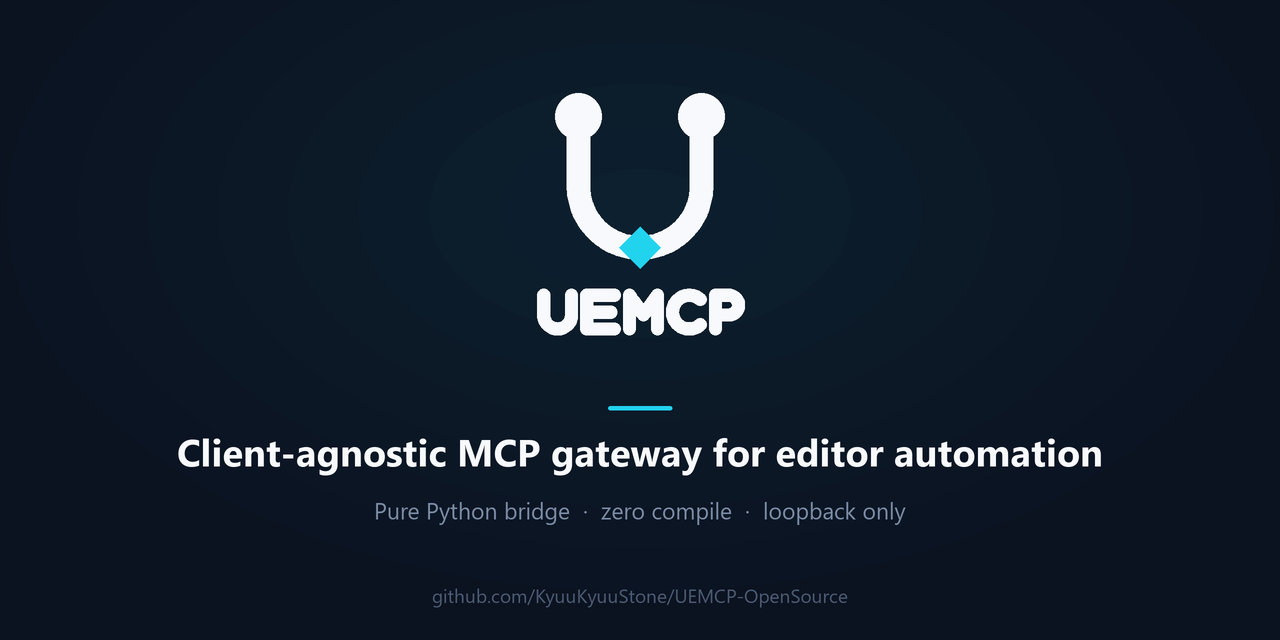
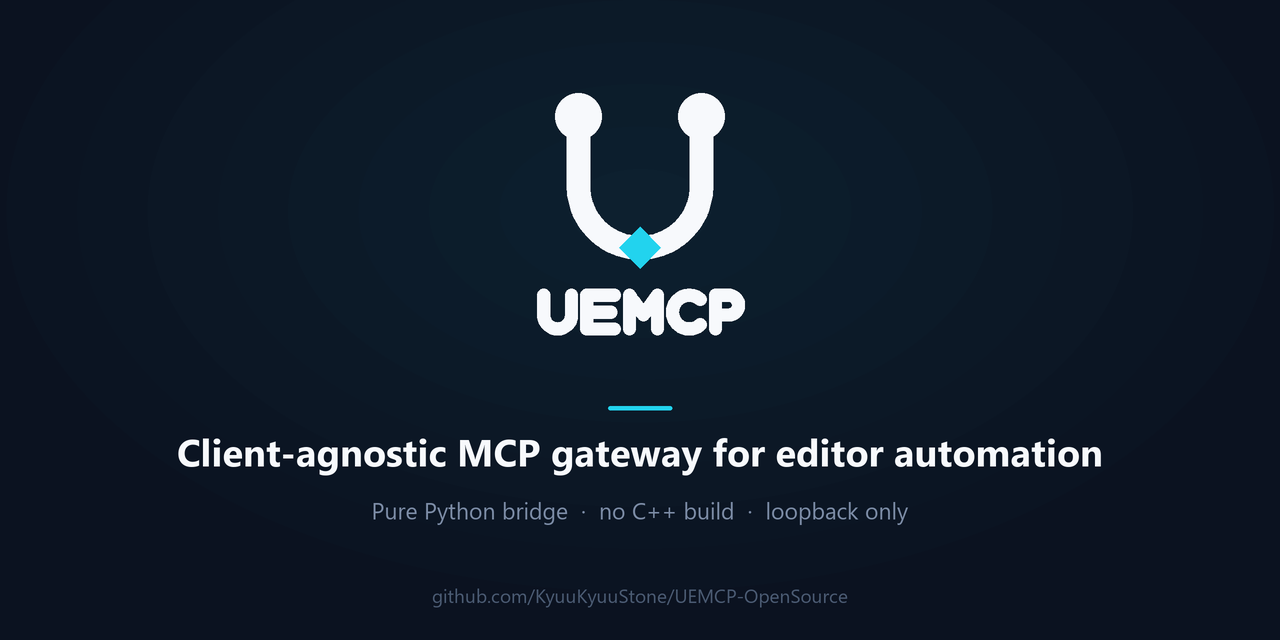
docs: add v0.1.0 download links, brand license, known limitations; refresh social preview

Changed region(s): [[0.4688, 0.7812, 0.7188, 0.8125], [0.2812, 0.7812, 0.4375, 0.8125]]

diff --git a/assets/render-logo.py b/assets/render-logo.py
@@ -248,7 +248,7 @@ def render_social(path):
     url_font = _font(int(19 * scale_factor), bold=False)
     _centered(draw, "Client-agnostic MCP gateway for editor automation",
               headline_font, int(height * 0.685), PAPER, width=width)
-    _centered(draw, "Pure Python bridge  ·  zero compile  ·  loopback only",
+    _centered(draw, "Pure Python bridge  ·  no C++ build  ·  loopback only",
               sub_font, int(height * 0.785), SLATE, width=width)
     _centered(draw, "github.com/KyuuKyuuStone/UEMCP-OpenSource",
               url_font, int(height * 0.92), "#4B5B73", width=width)
